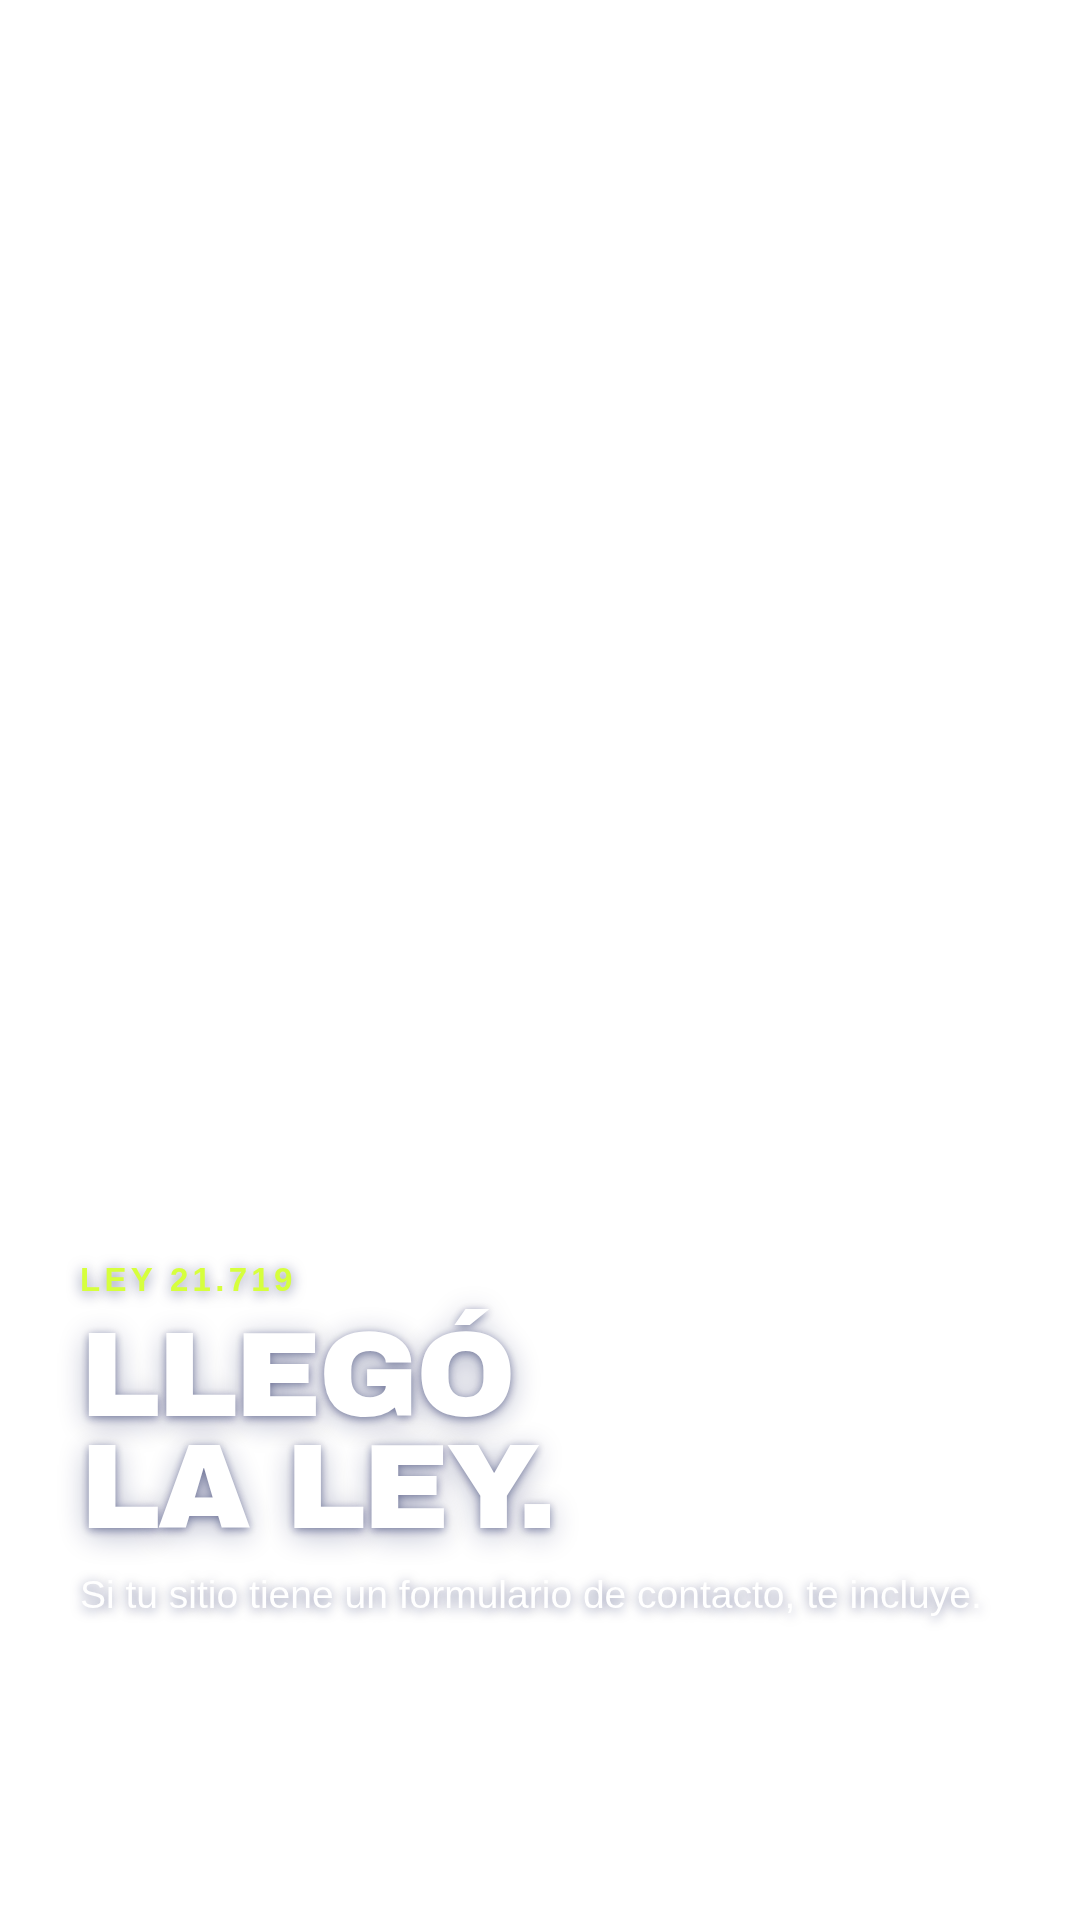
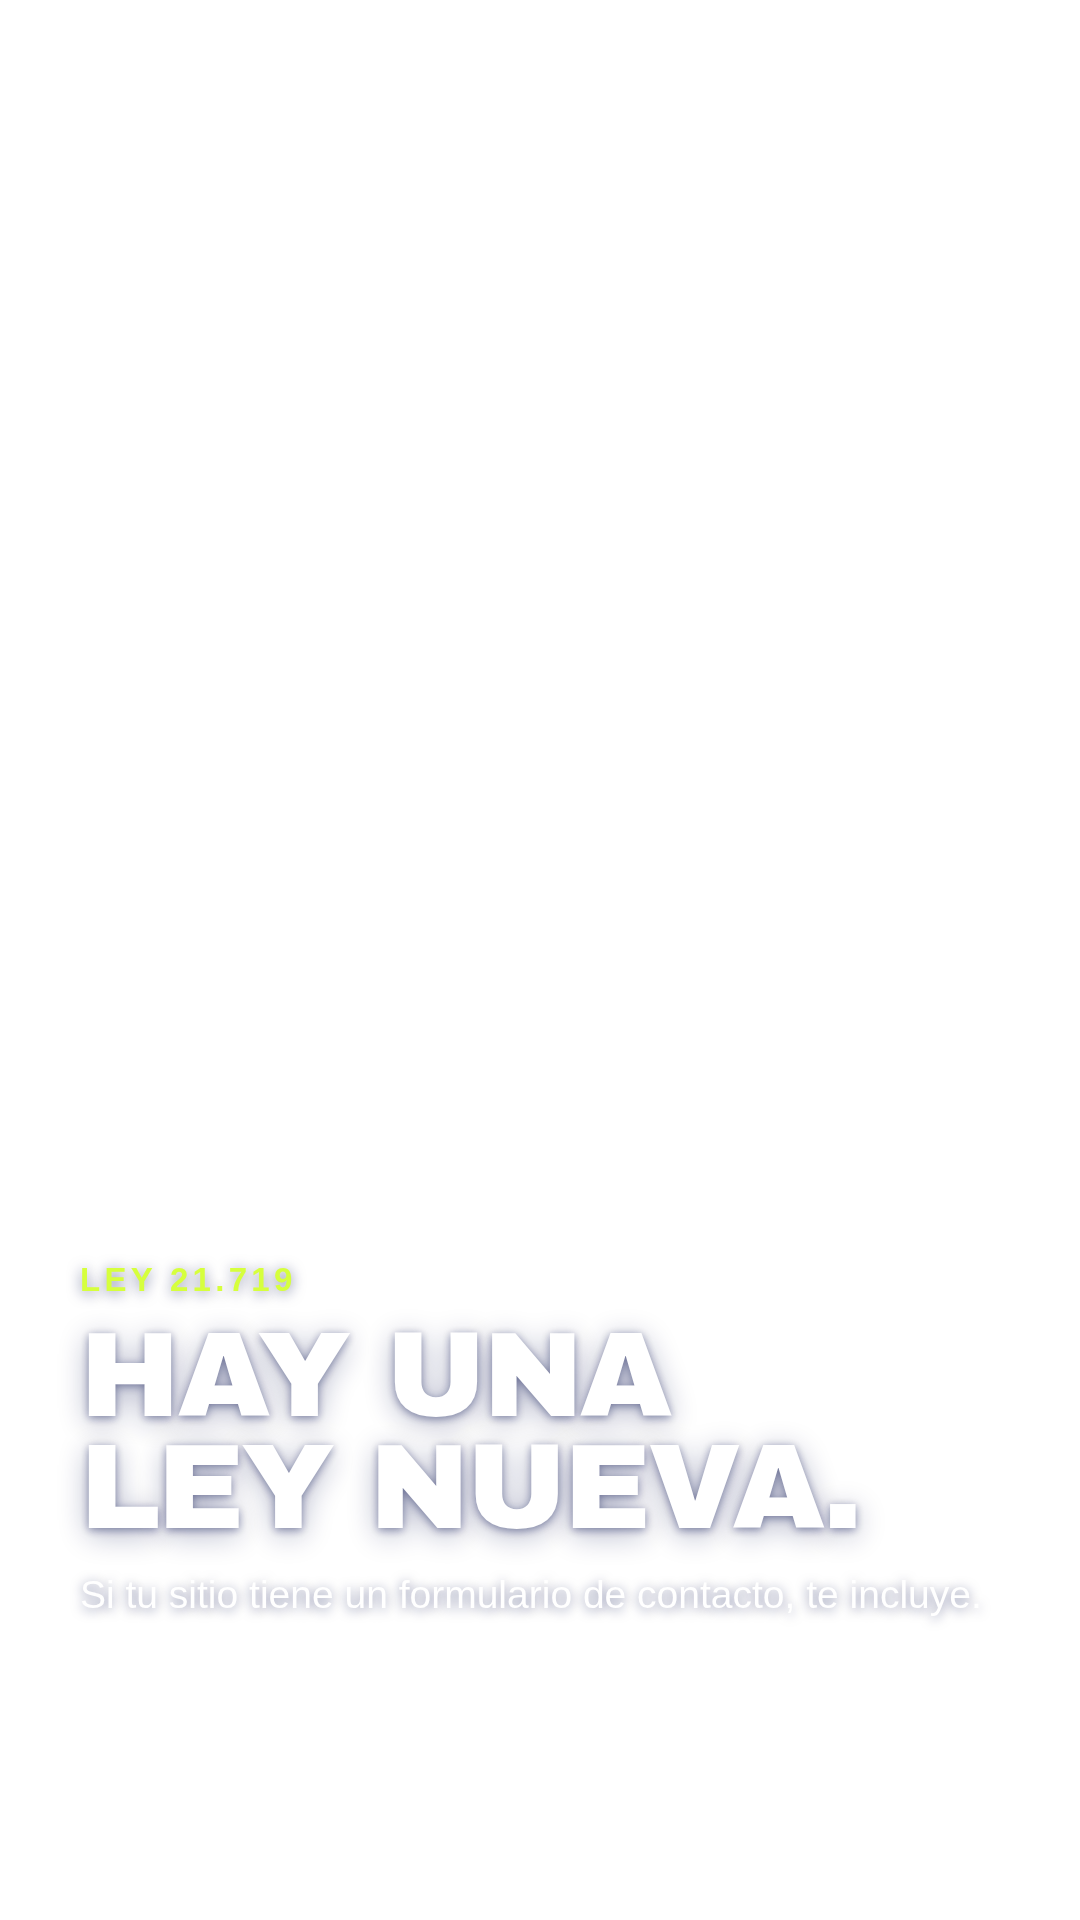
Caption y primer comentario del reel, y un overlay corregido por el chequeo
El chequeo de duplicación, rehecho con el inventario bueno que trajo el merge,
encontró un choque real: el overlay 2 decía "LLEGÓ LA LEY" y el 14-oct Ramón
publicó que el Gobierno presentó un proyecto en el Senado para mover la
vigencia a diciembre de 2027. Decirlo dos días después lo dejaba
contradiciéndose y vendiendo una urgencia que él mismo había relativizado.
Corregido a "HAY UNA LEY NUEVA", que es lo que dice el audio y no afirma
ninguna fecha. El guion hablado no tenía el problema.

Dos avisos de cadencia que salieron del mismo chequeo: van cuatro cierres
seguidos en el chequeo gratis, así que el primer comentario suma el diagnóstico
a mano y el caption no termina con la fórmula del primer comentario; y el video
abre con "Si", que es el tic que main documentó el 16-oct, pero ya está grabado
y el caption y el primer overlay compensan.

Claude-Session: https://claude.ai/code/session_01CR5SfVdVRLCtMzHMRctqPx

Changed region(s): [[0.0917, 0.6875, 0.7944, 0.8125]]

diff --git a/marketing/redes/2026-10-octubre-verifica/06-overlays-reel-ramon/overlay.html b/marketing/redes/2026-10-octubre-verifica/06-overlays-reel-ramon/overlay.html
@@ -80,7 +80,7 @@
     // Disciplina del acento, igual que el reel publicado: lima en dos etiquetas + la
     // tarjeta de cierre = 3 usos. Azul 0, rosa 0.
     { etiqueta: '',            linea: '¿HACE CUÁNTO<br>QUE NADIE<br>LO REVISA?', cuerpo: 'Tu sitio web lleva años igual.' },
-    { etiqueta: 'Ley 21.719',  linea: 'LLEGÓ<br>LA LEY.',                        cuerpo: 'Si tu sitio tiene un formulario de contacto, te incluye.' },
+    { etiqueta: 'Ley 21.719',  linea: 'HAY UNA<br>LEY NUEVA.',                   cuerpo: 'Si tu sitio tiene un formulario de contacto, te incluye.' },
     { etiqueta: '',            linea: '¿Y A QUIÉN<br>LE PREGUNTAS?',             cuerpo: 'El que te hizo el sitio ya no está.' },
     { etiqueta: 'Lo que hago', linea: 'NO NECESITAS<br>UNO NUEVO.',              cuerpo: 'Necesitas que alguien lo mire y te diga qué le falta.' },
   ];

diff --git a/marketing/redes/2026-10-octubre-linkedin/20-reel-sitio-sin-revisar/publicar.md b/marketing/redes/2026-10-octubre-linkedin/20-reel-sitio-sin-revisar/publicar.md
@@ -1,0 +1,72 @@
+# Publicar — Reel cara a cámara: "Tu sitio lleva años sin que nadie lo revise"
+
+**Canal:** perfil personal de Ramón · **Voz:** singular · video nativo, vertical 9:16
+**Estado:** ⬜ **sin aprobar.** Nada se publica sin OK de Ramón en el chat.
+**Guion:** `practica-camara/GUION-APROBADO-ley-sitio-viejo.md` · **Overlays:**
+`2026-10-octubre-verifica/06-overlays-reel-ramon/`
+
+## Caption (copiar y pegar)
+
+Hay una pregunta que aparece siempre cuando sale el tema de la ley de datos personales, y no es sobre la ley.
+
+A quién le preguntas, si el que te hizo el sitio ya no está.
+
+Casi nunca hay que rehacerlo. Hay que mirarlo y saber qué le falta.
+
+Cuarenta segundos, una toma, en mi living.
+
+### Línea opcional
+
+> Es la primera vez que salgo a cámara.
+
+**Tu decisión.** Es cierta y humaniza. En contra, pide indulgencia justo en la pieza que estrena
+tu cara. Si dudas, fuera.
+
+## Primer comentario (AL TIRO)
+
+El chequeo: https://verifica.spindlelab.cl
+
+Gratis, sin registro, y no guarda el dominio que revisas.
+
+Y si quieres que lo mire yo, escríbeme por acá y te mando una página con lo que encontré, gratis, en 24 horas.
+
+---
+
+## Chequeo de duplicación — rehecho el 16-oct con el inventario bueno
+
+**Esta sesión tenía el inventario viejo** y creía que el último post era del 7-oct. Al traer `main`
+aparecieron cuatro posts más. Leídos enteros, esto es lo que arrojó:
+
+| Post | ¿Choca? |
+|---|---|
+| **14-oct · la postergación de la ley** | **SÍ, y obligó a corregir un overlay.** Ver abajo |
+| 7-oct · lo que se mide gratis de visibilidad en IA | No. Otro tema. **Pero cierra con el chequeo**, igual que este |
+| 12-oct · qué le falta a tu página de servicio | No. Comparte el cierre del diagnóstico a mano |
+| 15-oct · el nombre del negocio en Google | No |
+| 5-oct · el cuarto mito | No. Ahí la amonestación; acá nada legal |
+
+### El choque, y cómo quedó resuelto
+
+El overlay 2 decía **«LLEGÓ LA LEY.»** El 14-oct Ramón publicó que el Gobierno presentó un proyecto
+en el Senado para mover la vigencia a diciembre de 2027. **Decir «llegó la ley» dos días después de
+haber dicho que podría postergarse lo deja contradiciéndose**, y encima suena a vender la urgencia
+que él mismo relativizó.
+
+Corregido a **«HAY UNA LEY NUEVA.»**, que es exactamente lo que dice el audio y no afirma ninguna
+fecha. El guion hablado no tenía el problema: solo lo tenía el overlay.
+
+### Dos avisos de cadencia
+
+1. **Cuatro cierres seguidos en el chequeo** (7, 12, 14-oct y este). La skill de voz lo marca como
+   plantilla: *"repetido en cuatro posts seguidos se lee plantilla; alterna"*. Por eso este primer
+   comentario pone el chequeo **y** el diagnóstico a mano, no solo el chequeo, y el caption no
+   termina con "Dejo X en el primer comentario".
+2. **El video abre con «Si tienes un sitio web…»** y seis de los siete posts de octubre abrieron con
+   "Si". Es el tic que `main` documentó el 16-oct. **El video ya está grabado y no se rehace por
+   esto**, pero el caption no abre con "Si" y el primer overlay tampoco, que compensa en pantalla.
+   Vale tenerlo presente para el siguiente.
+
+## Reglas respetadas
+
+Sin multa como gancho · sin «cumples» ni «no cumples» · sin prospecto ni competidor nombrado ·
+cero rayas largas · sin afirmar ninguna fecha de vigencia · voz singular.
